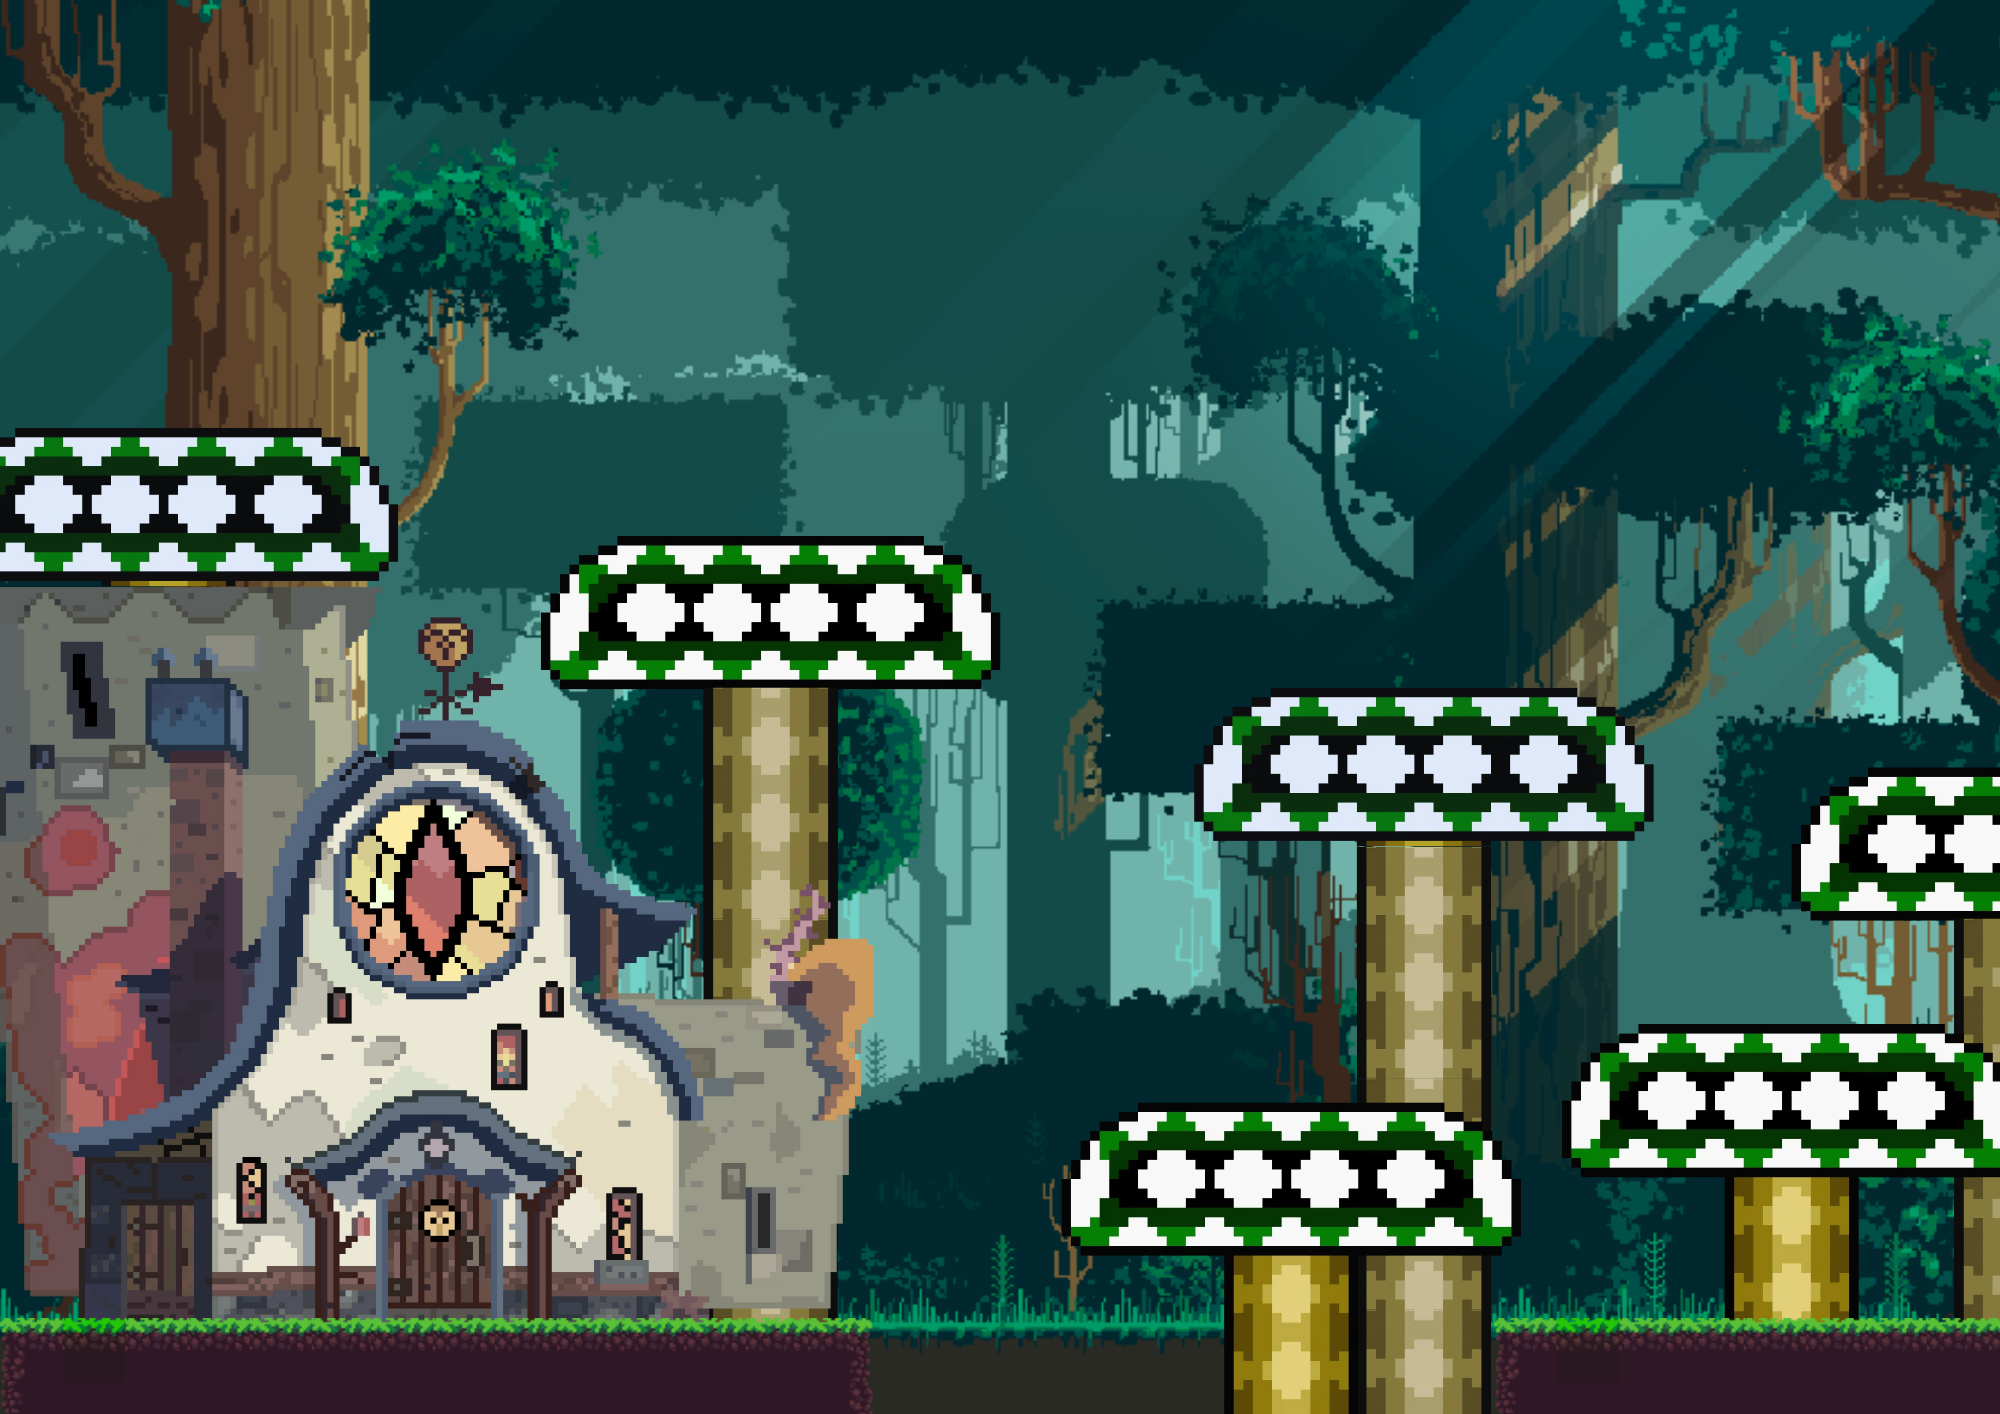
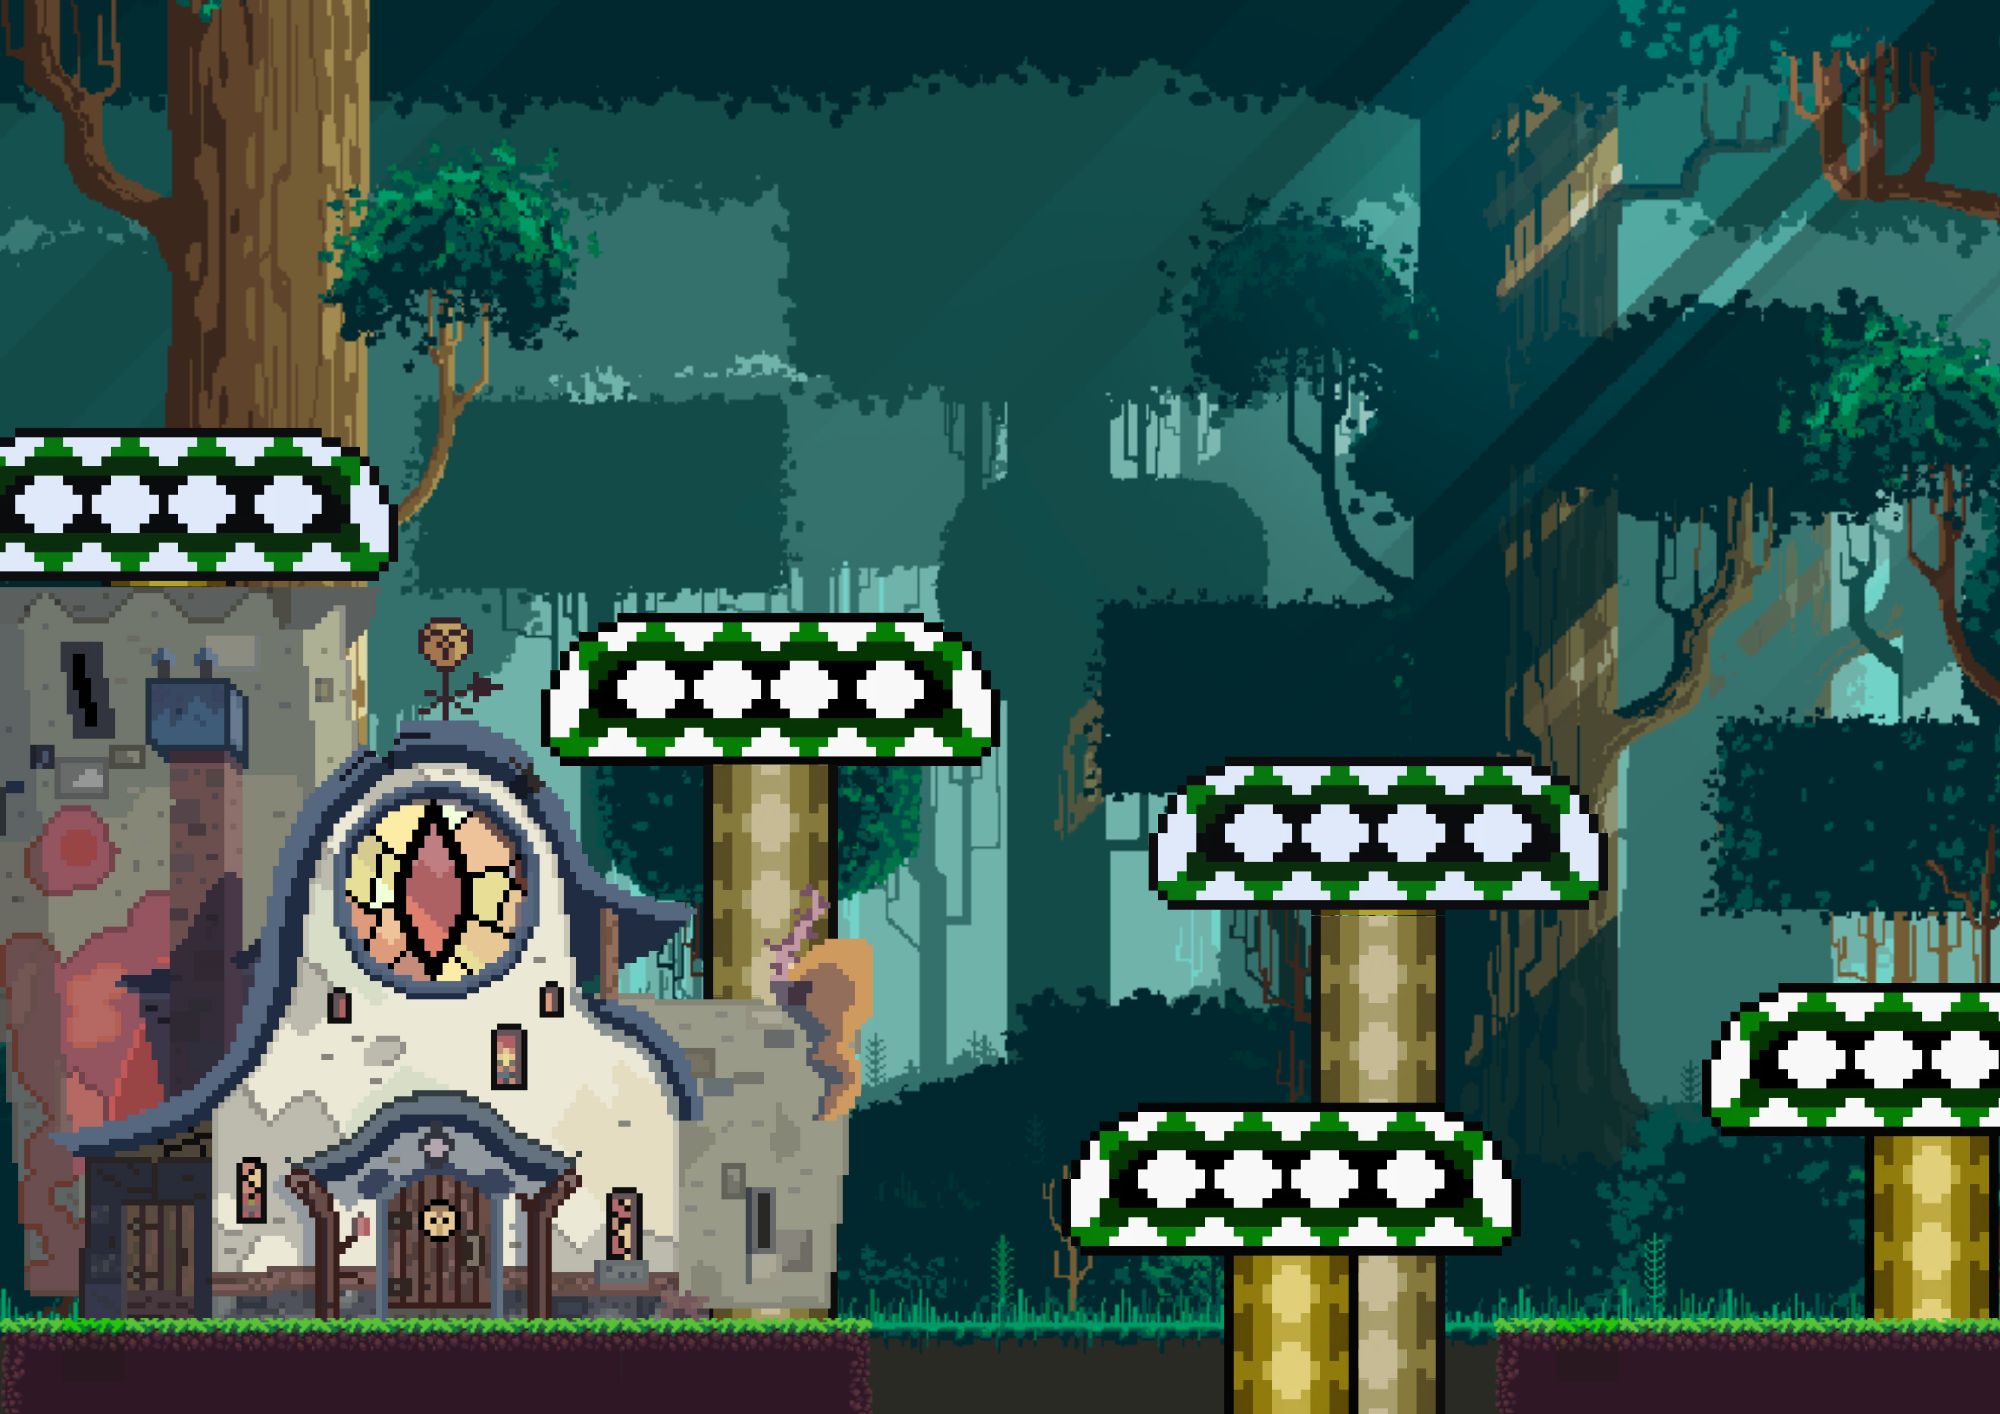
New level design + collision changes

diff --git a/src/js/game.js b/src/js/game.js
@@ -26,8 +26,14 @@ export class Game extends Engine {
     goalPoints
 
     //platforms/world
-    platform1
-    platform2
+    startingPlatform
+    mushroom1
+    mushroom2
+    mushroom3
+    mushroom4
+    mushroom5
+    mushroom6
+    otherPlatform
     trashcan
     ball
     background
@@ -93,16 +99,34 @@ export class Game extends Engine {
         this.ui = new UI();
         this.add(this.ui)
 
-        this.platform1 = new Platform(40, 595, 650);
-        this.add(this.platform1);
+        this.startingPlatform = new Platform(40, 595, 620);
+        this.add(this.startingPlatform);
 
-        this.platform2 = new Platform(400, 500, 200);
-        this.add(this.platform2);
+        this.mushroom1 = new Platform(515, 500, 180);
+        this.add(this.mushroom1);
+
+        this.mushroom2 = new Platform(780, 450, 180); //x,y, width
+        this.add(this.mushroom2);
+
+        this.mushroom3 = new Platform(550, 355, 150); 
+        this.add(this.mushroom3);
+
+        this.mushroom4 = new Platform(810, 360, 180);
+        this.add(this.mushroom4);
+
+        this.mushroom5 = new Platform(810, 360, 180);
+        this.add(this.mushroom5);
+
+        this.mushroom6 = new Platform(810, 360, 180);
+        this.add(this.mushroom6);
+
+        this.otherPlatform = new Platform(910, 595, 620);
+        this.add(this.otherPlatform);
 
         this.enemy1 = new Raccoon(500, 300);
         this.add(this.enemy1);
 
-        this.trap1 = new Trap(600, 565);
+        this.trap1 = new Trap(640, 555);
         this.add(this.trap1);
     }
 

diff --git a/src/js/ui.js b/src/js/ui.js
@@ -115,8 +115,14 @@ export class UI extends ScreenElement {
 
     #removeLevel(){
         this.scene.engine.player.kill();
-        this.scene.engine.platform1.kill();
-        this.scene.engine.platform2.kill();
+        this.scene.engine.startingPlatform.kill();
+        this.scene.engine.mushroom1.kill();
+        this.scene.engine.mushroom2.kill();
+        this.scene.engine.mushroom3.kill();
+        this.scene.engine.mushroom4.kill();
+        this.scene.engine.mushroom5.kill();
+        this.scene.engine.mushroom6.kill();
+        this.scene.engine.otherPlatform.kill();
         this.scene.engine.trap1.kill();
         // this.scene.engine.trashcan.kill();
 
